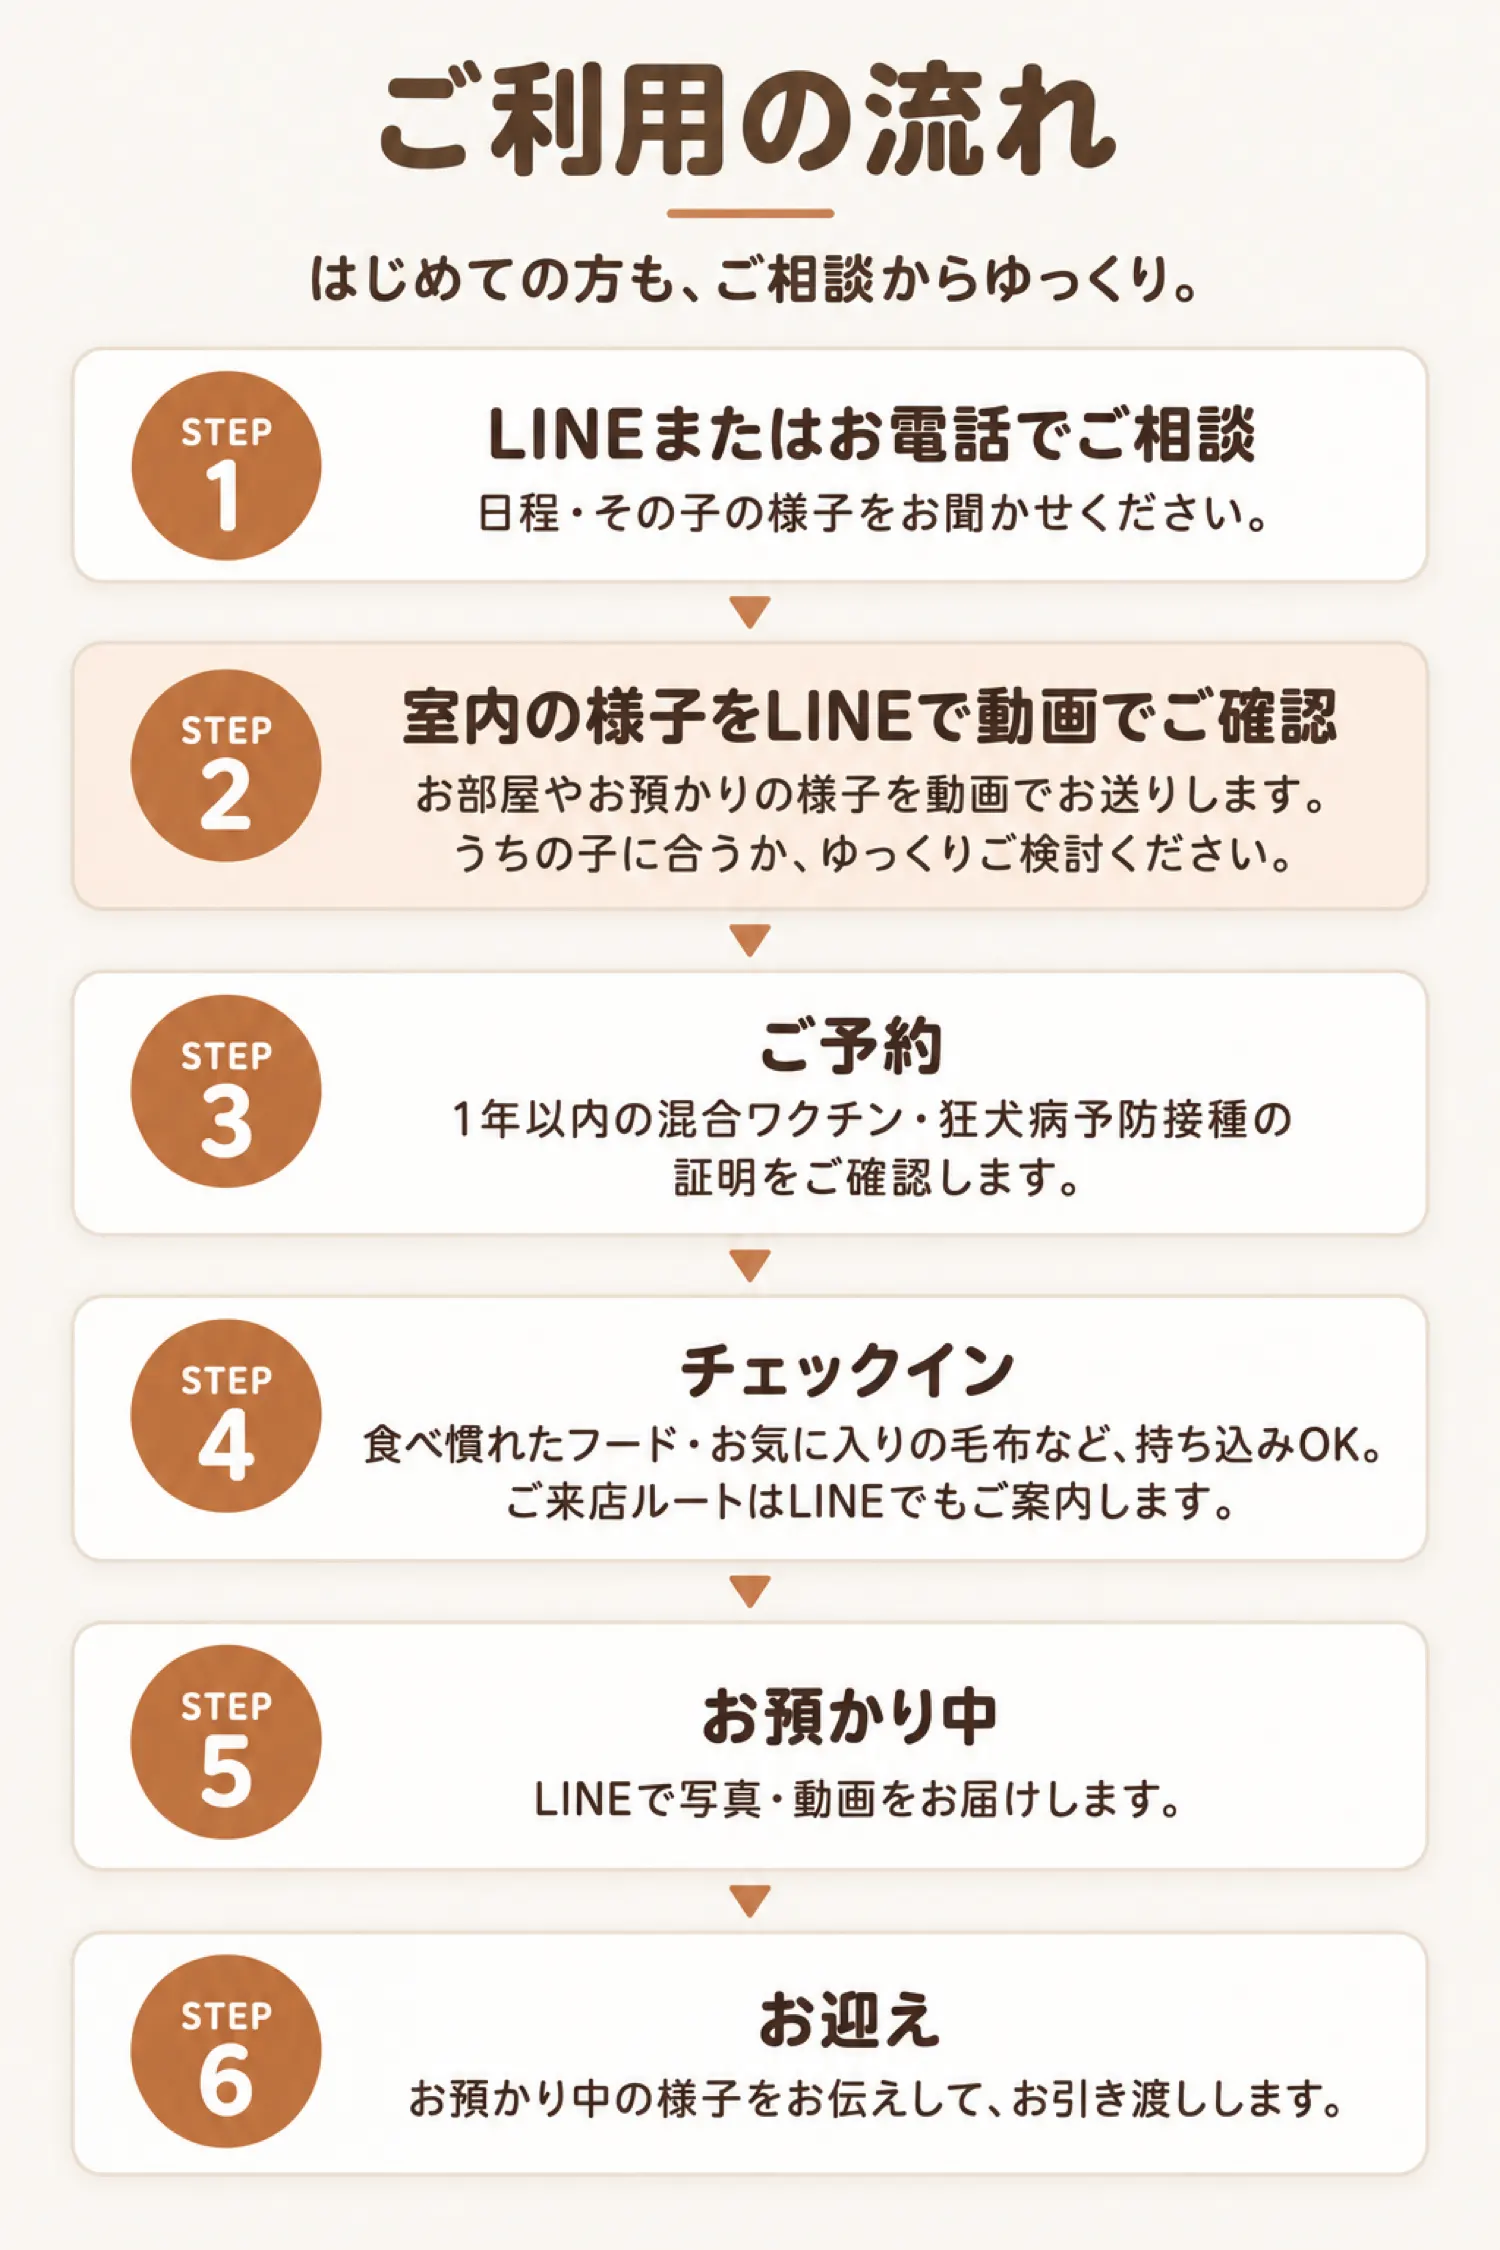
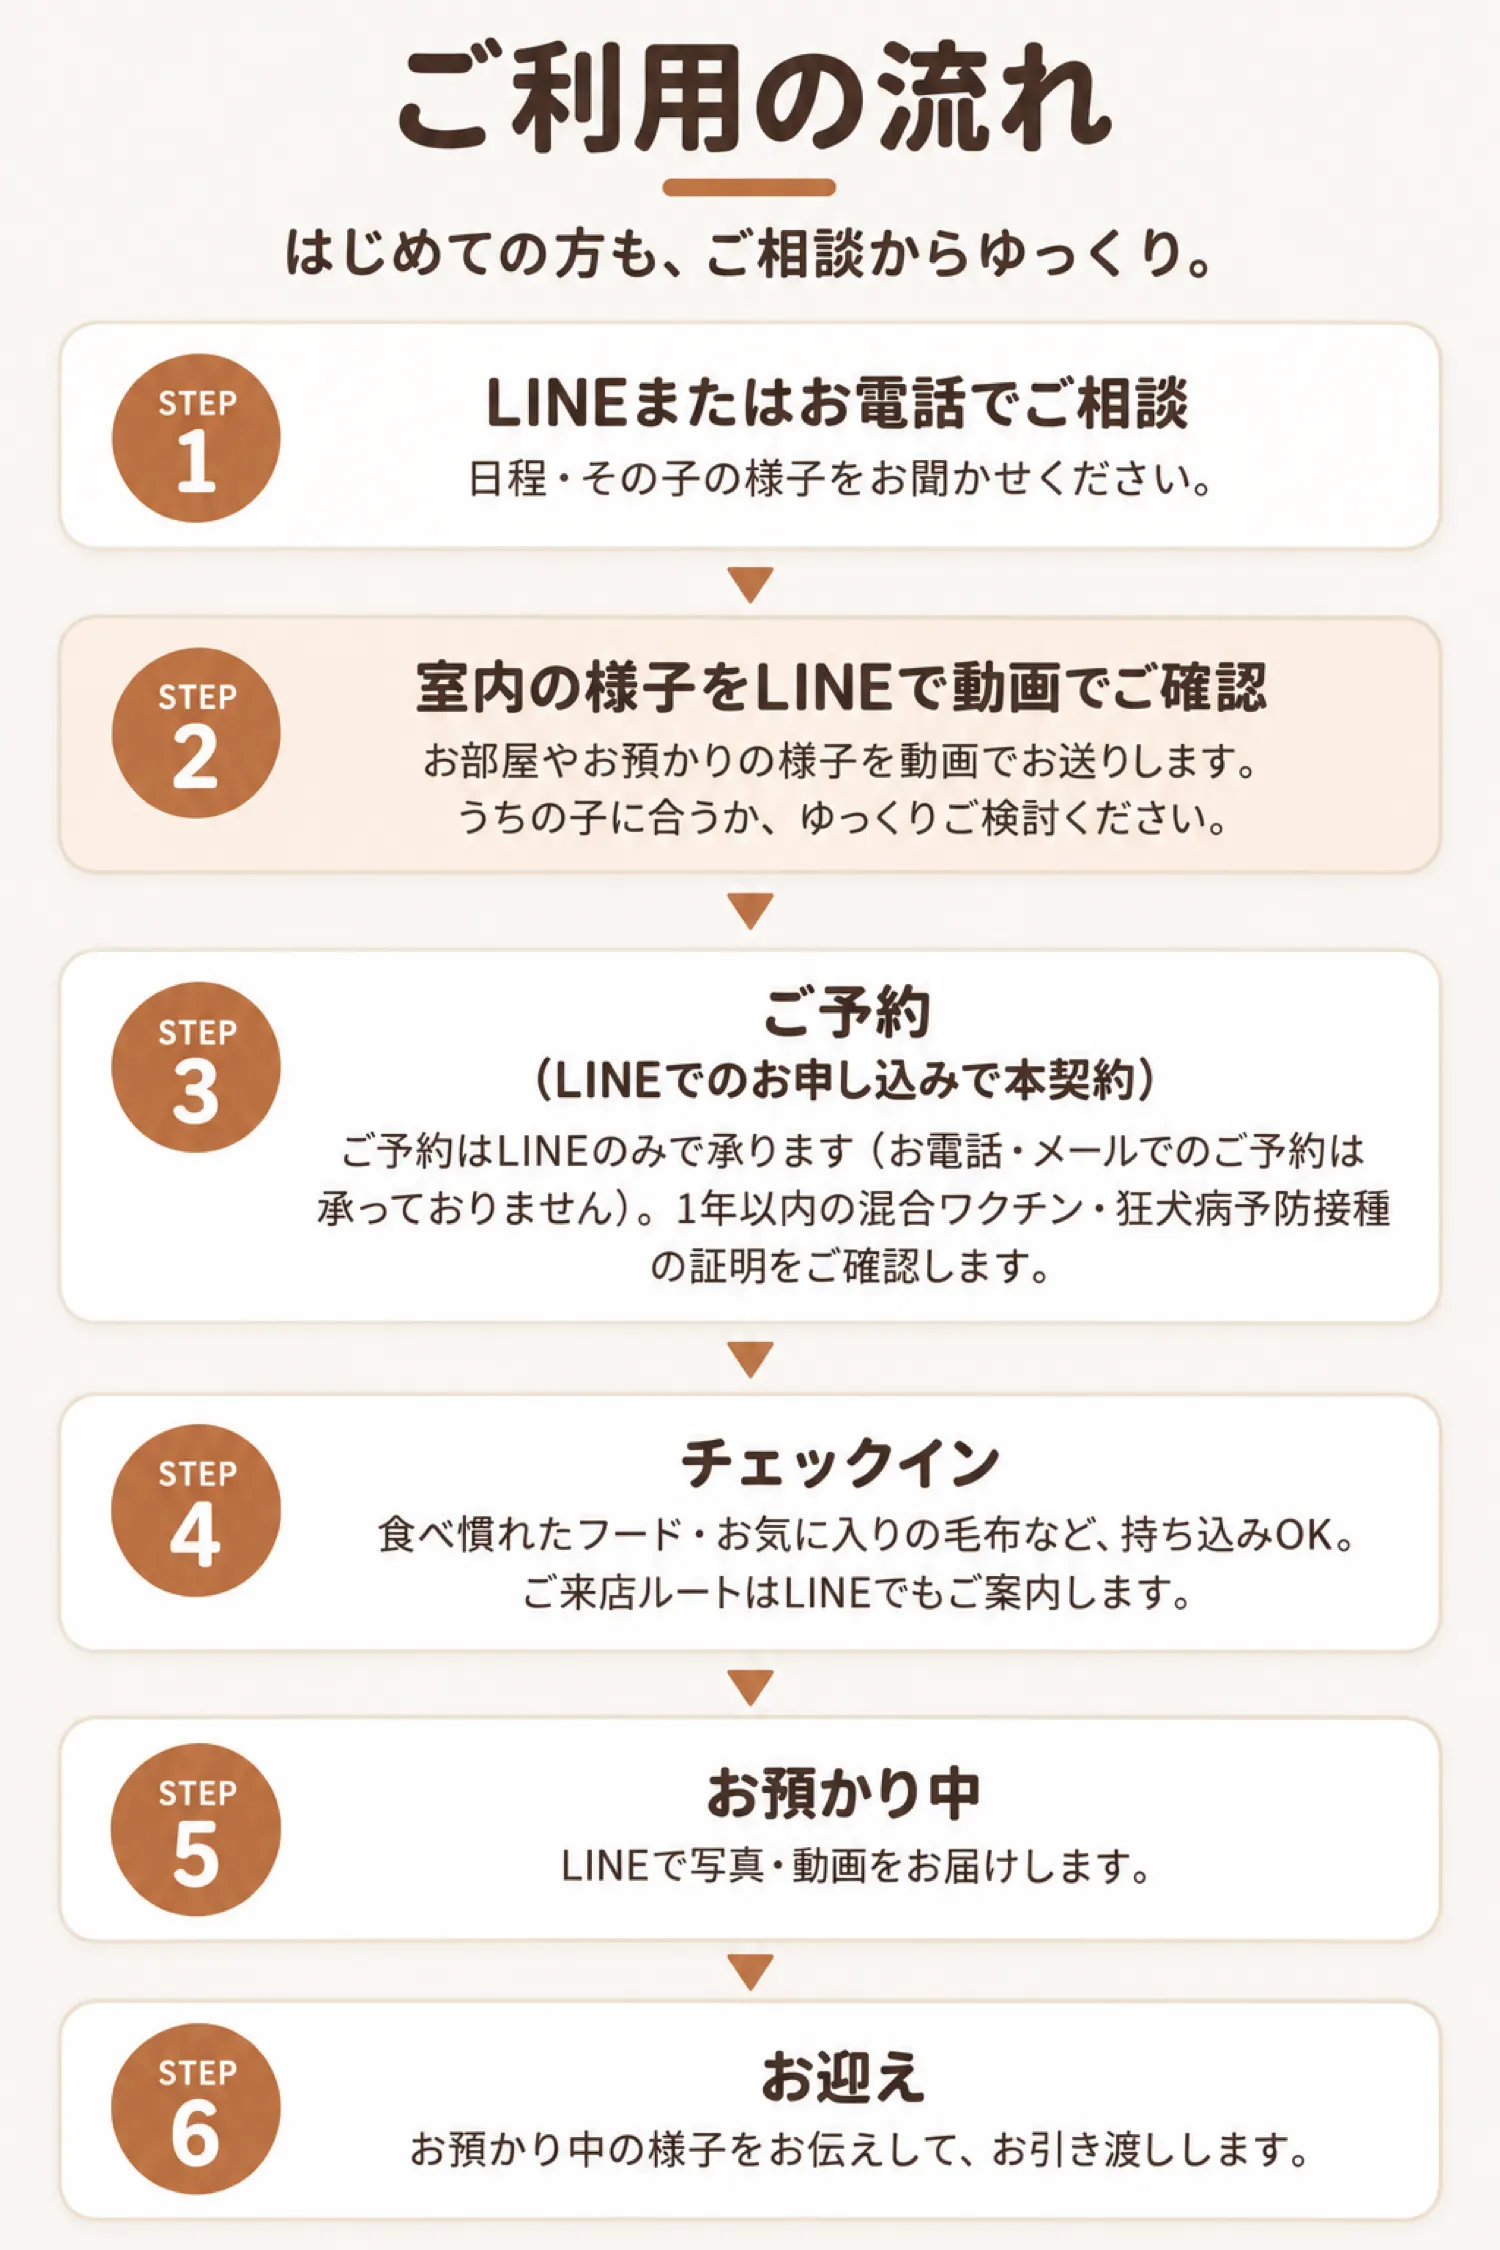
update

diff --git a/index.html b/index.html
@@ -139,8 +139,8 @@
 
       <!-- ▼⑬ ご利用の流れ -->
       <section class="slice">
-        <img src="img/13-flow.webp?v=2" width="1500" height="2250" loading="lazy"
-             alt="ご利用の流れ。はじめての方も、ご相談からゆっくり。STEP1 LINEまたはお電話でご相談。STEP2 室内の様子をLINEで動画でご確認。STEP3 ご予約：1年以内の混合ワクチン・狂犬病予防接種の証明をご確認します。STEP4 チェックイン：食べ慣れたフード・お気に入りの毛布など持ち込みOK。STEP5 お預かり中：LINEで写真・動画をお届け。STEP6 お迎え">
+        <img src="img/13-flow.webp?v=3" width="1500" height="2250" loading="lazy"
+             alt="ご利用の流れ。はじめての方も、ご相談からゆっくり。STEP1 LINEまたはお電話でご相談。STEP2 室内の様子をLINEで動画でご確認。STEP3 ご予約（LINEでのお申し込みで本契約）：ご予約はLINEのみで承ります（お電話・メールでのご予約は承っておりません）。1年以内の混合ワクチン・狂犬病予防接種の証明をご確認します。STEP4 チェックイン：食べ慣れたフード・お気に入りの毛布など持ち込みOK。STEP5 お預かり中：LINEで写真・動画をお届け。STEP6 お迎え">
       </section>
 
       <!-- CTA（⑬直後） -->
